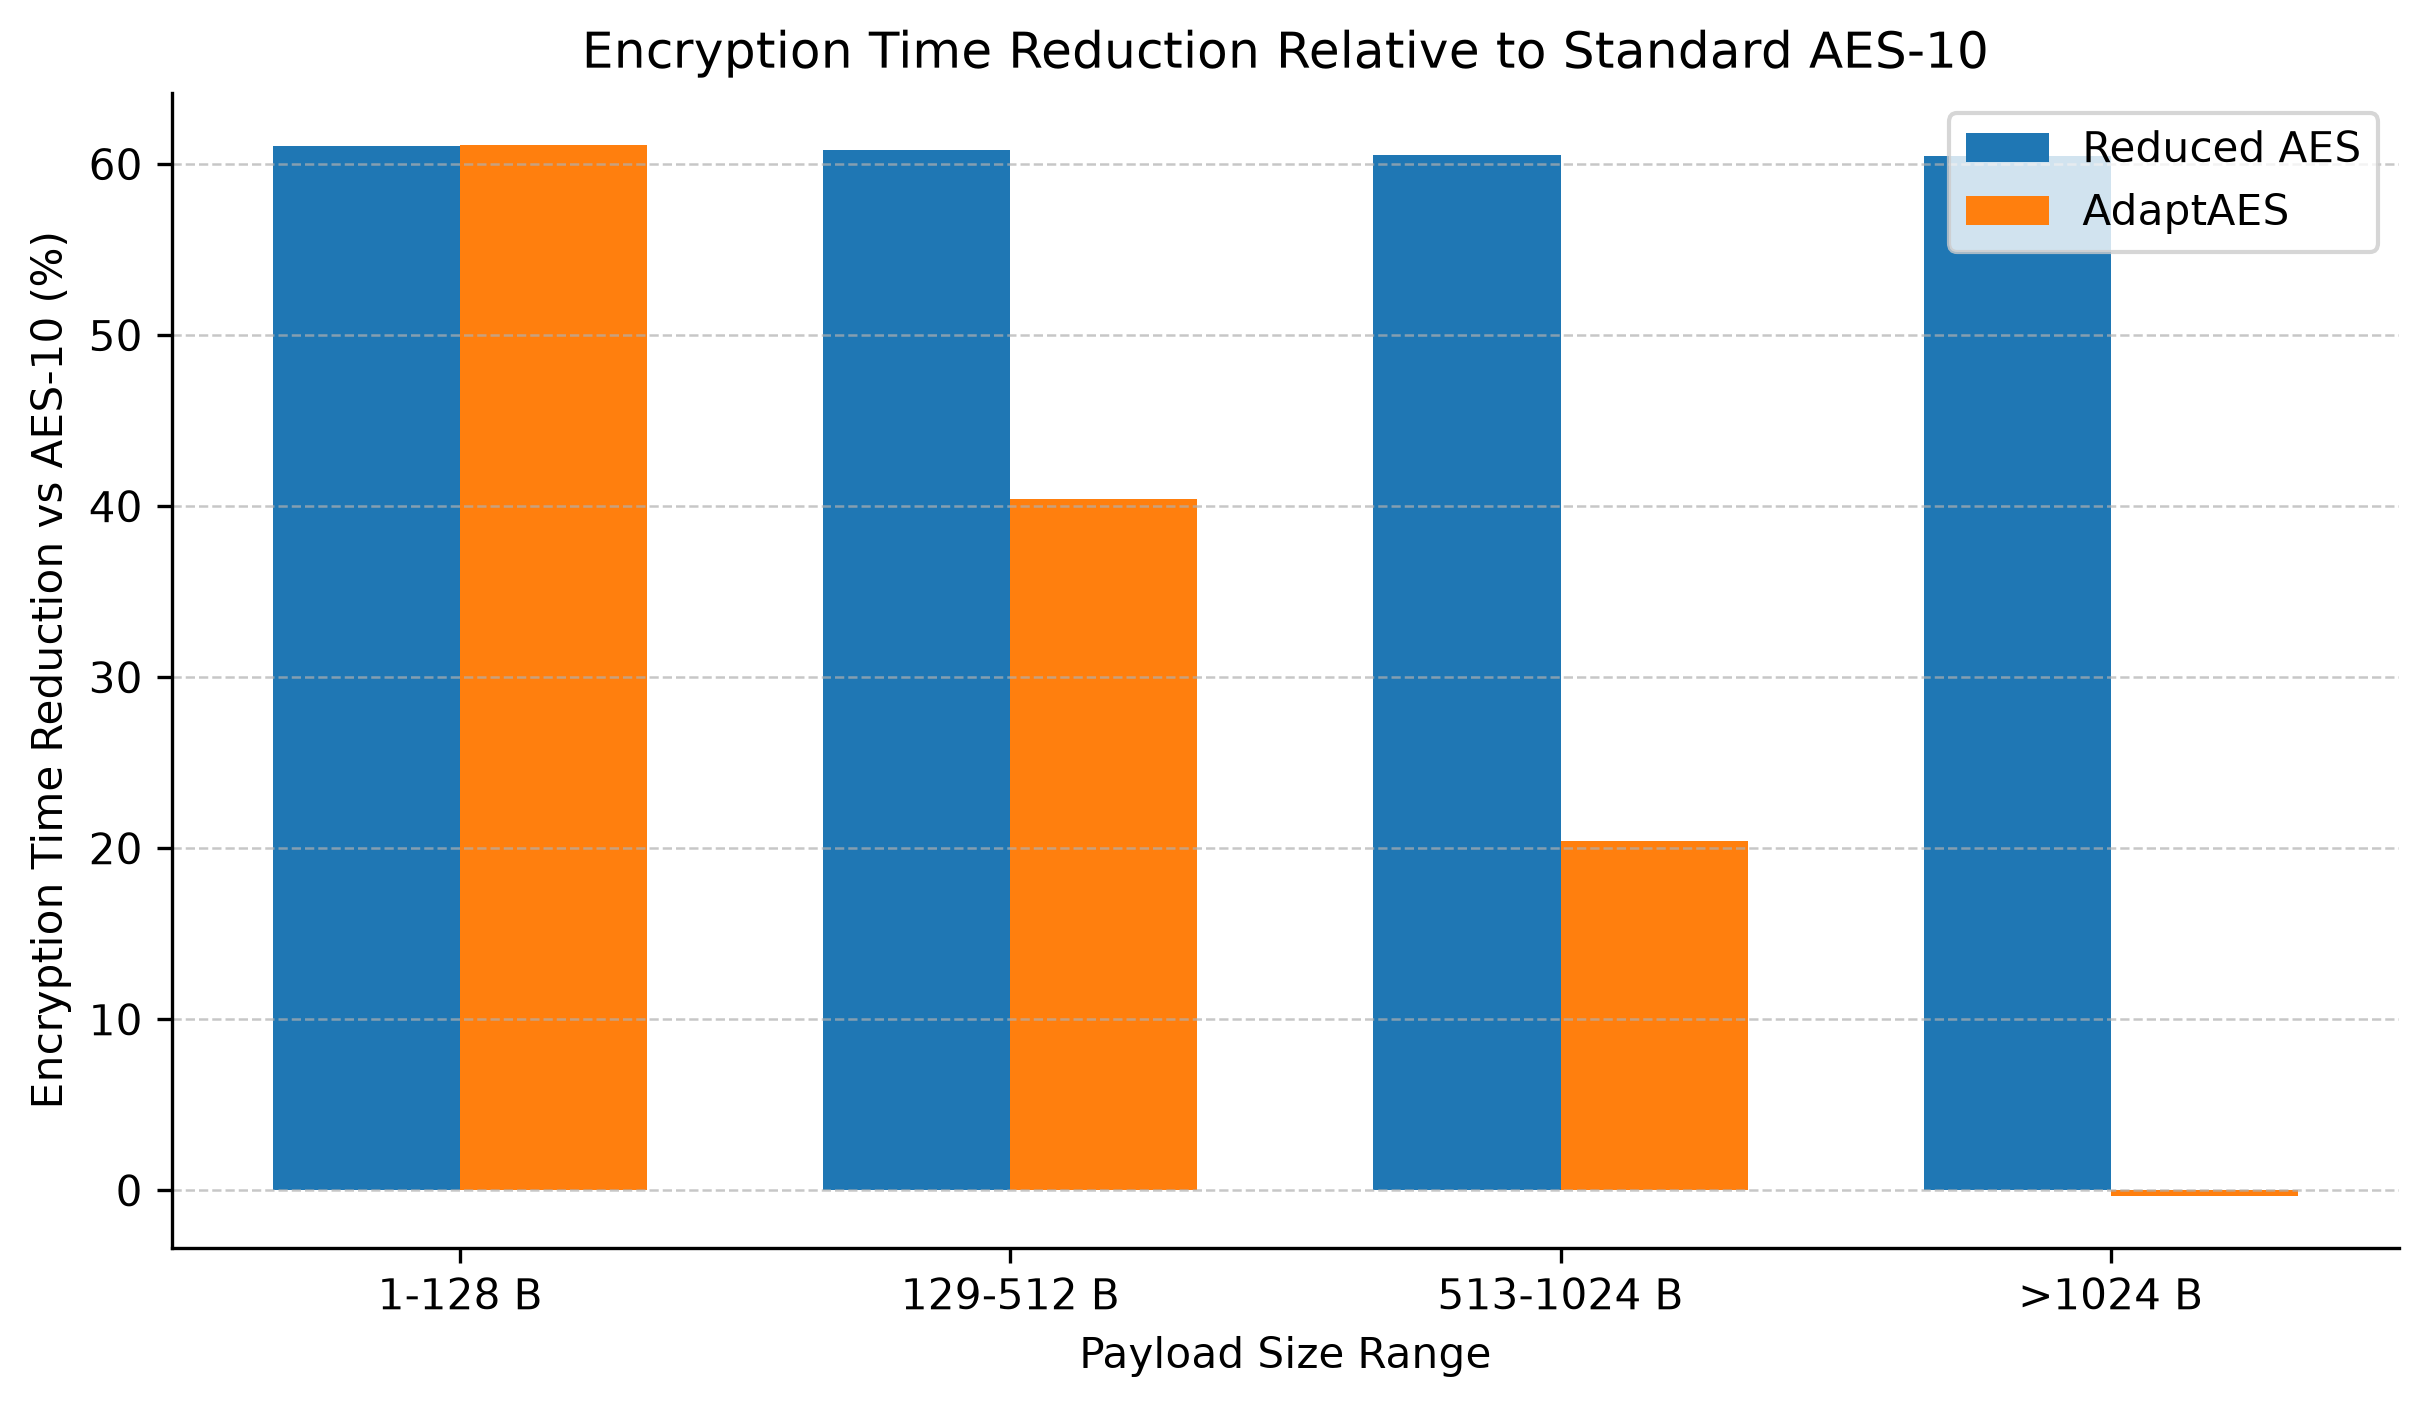
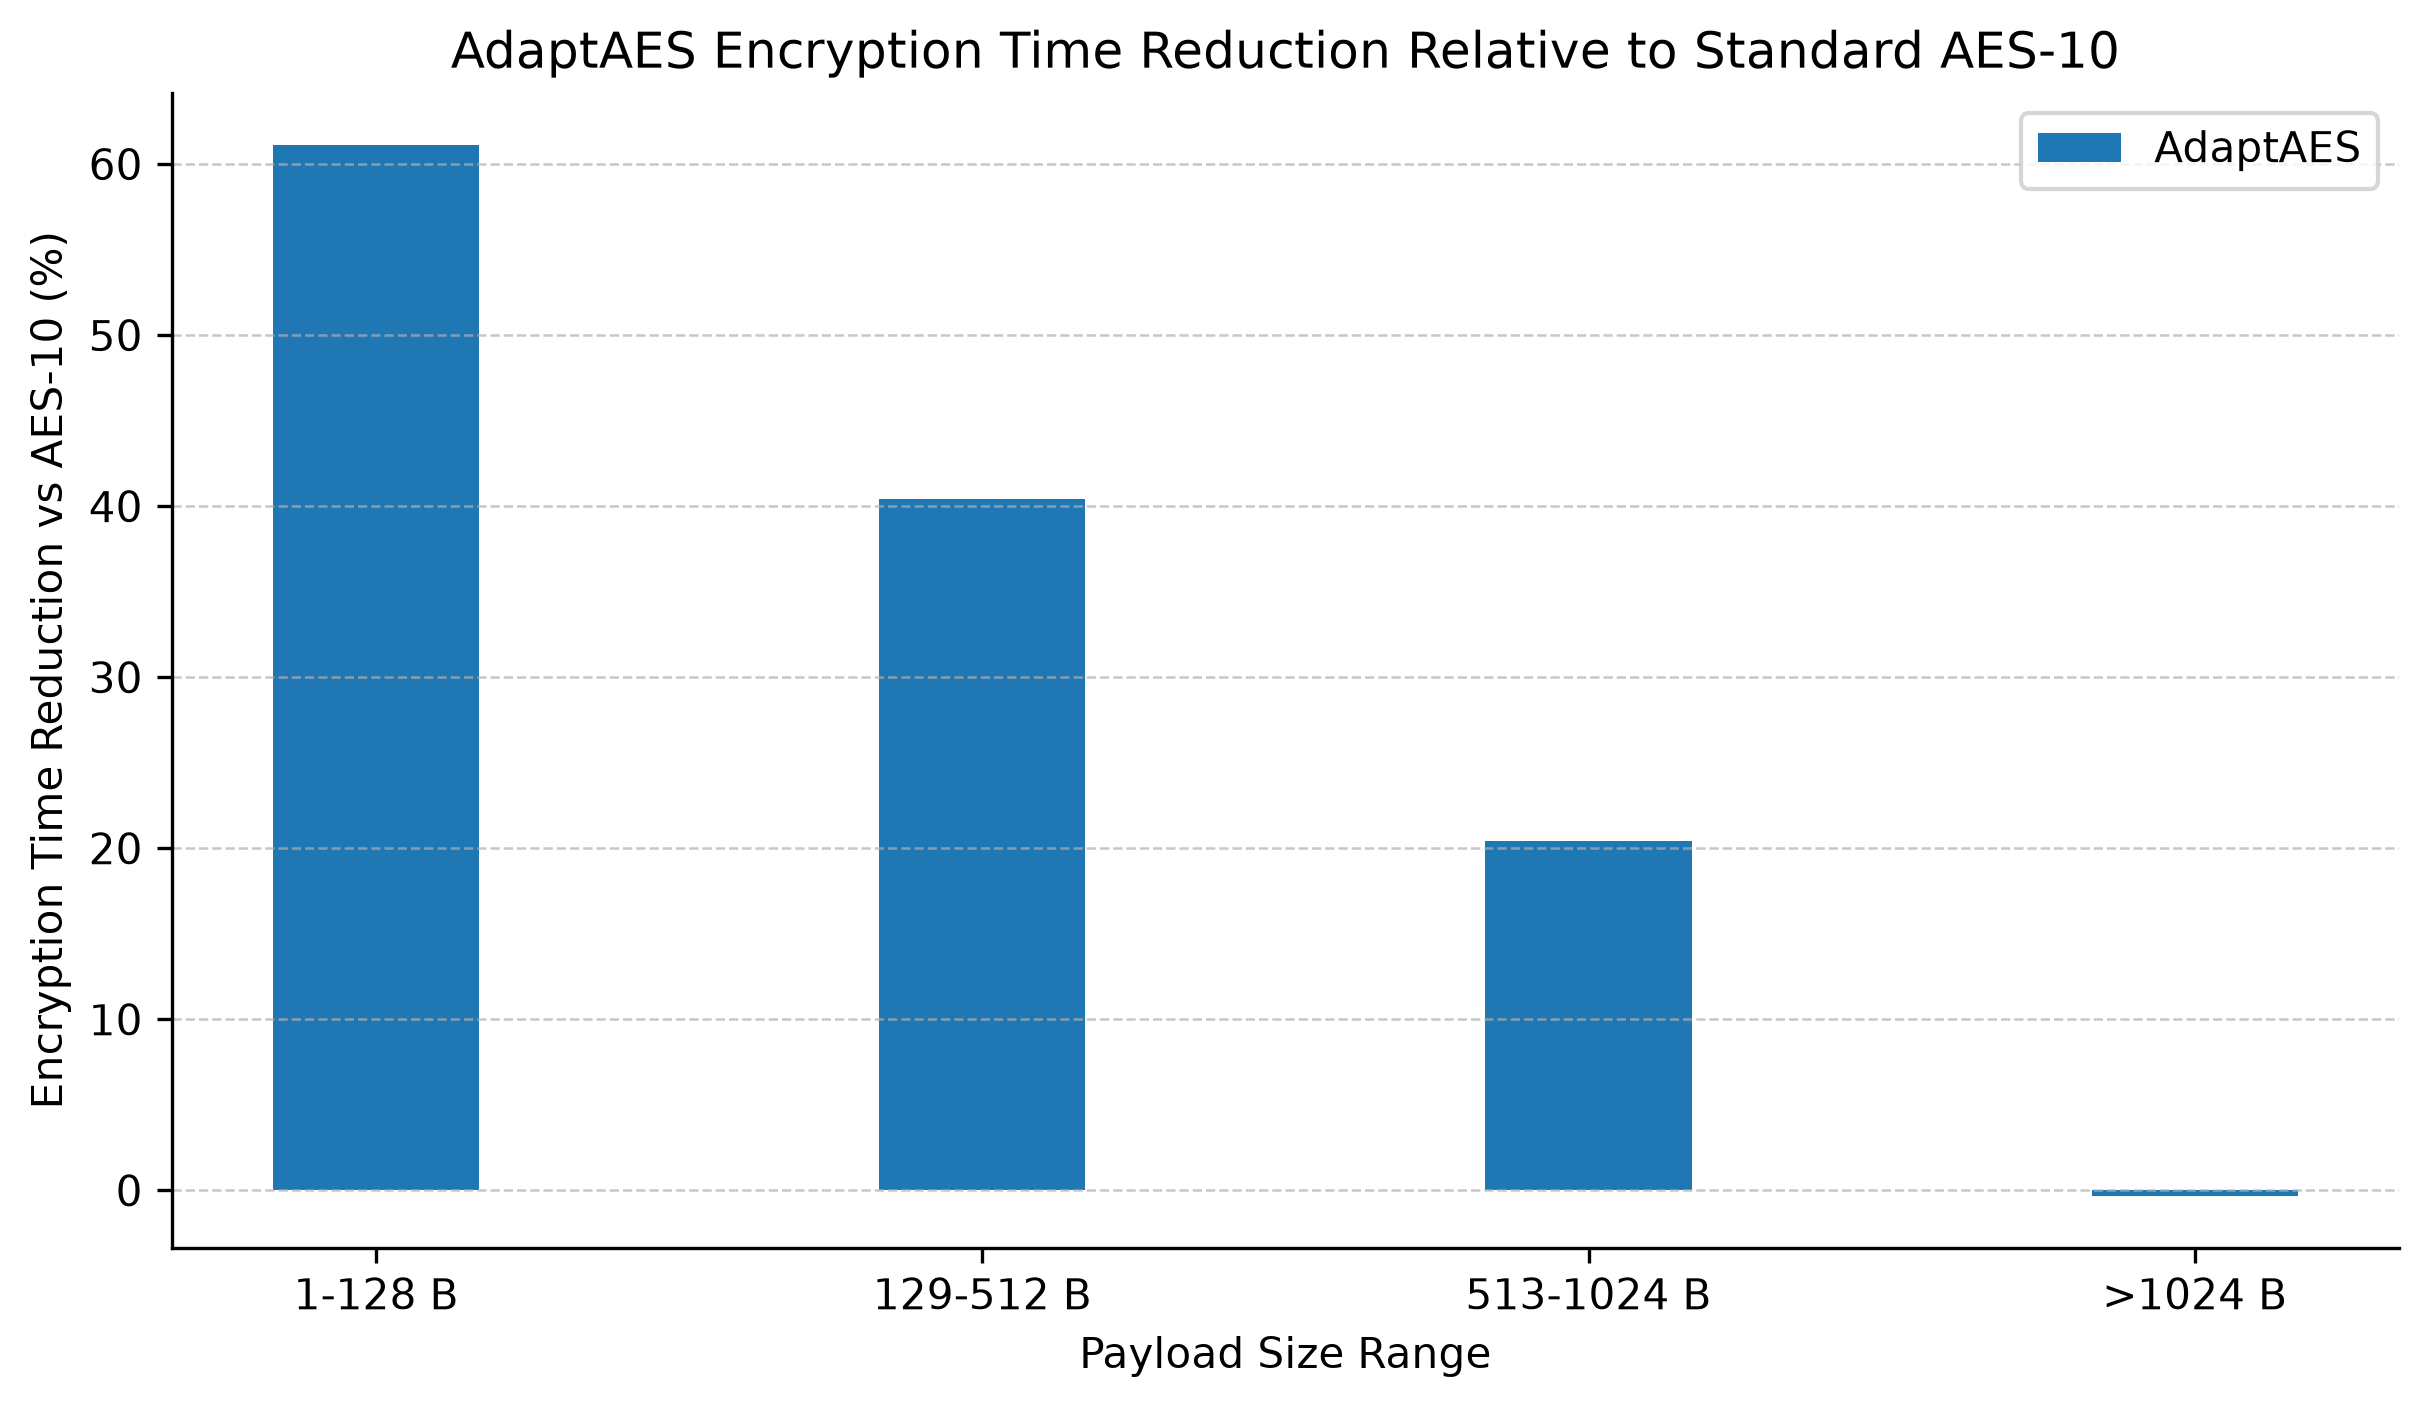
Update AdaptAES comparison graphs

diff --git a/scripts/generate_graphs.py b/scripts/generate_graphs.py
@@ -26,9 +26,6 @@ MODE_LABELS = {
     "fixed_reduced_aes_4": "Reduced AES",
     "adaptaes": "AdaptAES",
 }
-SECURITY_ROUNDS = [4, 6, 8, 10]
-
-
 def read_csv(path: Path) -> list[dict[str, str]]:
     with path.open("r", newline="", encoding="utf-8") as handle:
         return list(csv.DictReader(handle))
@@ -53,13 +50,6 @@ def validate_performance(rows: list[dict[str, str]]) -> None:
     if missing:
         formatted = ", ".join(f"{bucket}/{mode}" for bucket, mode in missing)
         raise ValueError(f"Missing payload range/method rows: {formatted}")
-
-
-def validate_security(rows: list[dict[str, str]]) -> None:
-    present = {int(float(row["rounds"])) for row in rows}
-    missing = [rounds for rounds in SECURITY_ROUNDS if rounds not in present]
-    if missing:
-        raise ValueError(f"Missing security round rows: {missing}")
 
 
 def ns_to_ms(value: str) -> float:
@@ -99,7 +89,7 @@ def graph1_payload_round_selection(rows: list[dict[str, str]], out_dir: Path) ->
 
     ax_rounds.set_xticks(x)
     ax_rounds.set_xticklabels([BUCKET_LABELS[bucket] for bucket in BUCKET_ORDER])
-    ax_rounds.set_yticks(SECURITY_ROUNDS)
+    ax_rounds.set_yticks([4, 6, 8, 10])
     ax_rounds.set_ylabel("AdaptAES Rounds")
     ax_percent.set_ylabel("Payload Share (%)")
     ax_rounds.set_xlabel("Payload Size Range")
@@ -147,9 +137,34 @@ def grouped_bar(
     save(fig, out_dir / filename)
 
 
+def weighted_method_metrics(rows: list[dict[str, str]]) -> dict[str, dict[str, float]]:
+    metrics = [
+        "avalanche_percent",
+        "key_avalanche_percent",
+        "entropy_bits_per_byte",
+        "plaintext_ciphertext_correlation",
+    ]
+    by_mode: dict[str, list[dict[str, str]]] = {mode: [] for mode in MODE_ORDER}
+    for row in rows:
+        by_mode[row["mode"]].append(row)
+
+    weighted = {}
+    for mode, mode_rows in by_mode.items():
+        total = sum(int(float(row["payload_count"])) for row in mode_rows)
+        weighted[mode] = {
+            metric: sum(
+                int(float(row["payload_count"])) * float(row[metric])
+                for row in mode_rows
+            )
+            / total
+            for metric in metrics
+        }
+    return weighted
+
+
 def graph5_security_metrics(rows: list[dict[str, str]], out_dir: Path) -> None:
-    by_round = {int(float(row["rounds"])): row for row in rows}
-    x = SECURITY_ROUNDS
+    by_mode = weighted_method_metrics(rows)
+    x = list(range(len(MODE_ORDER)))
     metrics = [
         ("avalanche_percent", "Avalanche Effect (%)", "Avalanche Effect", 50.0),
         ("key_avalanche_percent", "Key Avalanche Effect (%)", "Key Avalanche Effect", 50.0),
@@ -159,31 +174,31 @@ def graph5_security_metrics(rows: list[dict[str, str]], out_dir: Path) -> None:
 
     fig, axes = plt.subplots(2, 2, figsize=(9.5, 6.8))
     for ax, (column, ylabel, title, reference) in zip(axes.flat, metrics):
-        values = [float(by_round[rounds][column]) for rounds in x]
-        ax.plot(x, values, marker="o", linewidth=2)
+        values = [by_mode[mode][column] for mode in MODE_ORDER]
+        for index, (mode, value) in enumerate(zip(MODE_ORDER, values)):
+            ax.bar(index, value, width=0.55, label=MODE_LABELS[mode])
         if reference is not None:
             ax.axhline(reference, linestyle="--", linewidth=1)
         ax.set_xticks(x)
-        ax.set_xlabel("AES Rounds")
+        ax.set_xticklabels([MODE_LABELS[mode] for mode in MODE_ORDER], rotation=15, ha="right")
+        ax.set_xlabel("Method")
         ax.set_ylabel(ylabel)
         ax.set_title(title)
         style_axes(ax)
 
-    fig.suptitle("Security Characteristics Across AES Round Counts", fontsize=13)
+    fig.suptitle("Security Characteristics Across AES Methods", fontsize=13)
     save(fig, out_dir / "graph5_security_metrics_vs_rounds.png")
 
 
-def print_validation(performance_path: Path, security_path: Path) -> None:
+def print_validation(performance_path: Path) -> None:
     print("Found performance result:")
     print(f"    {performance_path}")
-    print("Found security result:")
-    print(f"    {security_path}")
     print("Using performance columns:")
     print("    payload_bucket, mode, payload_count, rounds_used")
     print("    mean_encryption_time_ns, mean_decryption_time_ns")
     print("    time_reduction_percent_vs_aes10")
-    print("Using security columns:")
-    print("    rounds, avalanche_percent, key_avalanche_percent")
+    print("Using security/statistical columns from the same file:")
+    print("    avalanche_percent, key_avalanche_percent")
     print("    entropy_bits_per_byte, plaintext_ciphertext_correlation")
 
 
@@ -199,7 +214,6 @@ def main() -> None:
     out_dir.mkdir(parents=True, exist_ok=True)
 
     performance_rows = read_csv(performance_path)
-    security_rows = read_csv(security_path)
     performance_columns = [
         "payload_bucket",
         "mode",
@@ -208,19 +222,14 @@ def main() -> None:
         "mean_encryption_time_ns",
         "mean_decryption_time_ns",
         "time_reduction_percent_vs_aes10",
-    ]
-    security_columns = [
-        "rounds",
         "avalanche_percent",
         "key_avalanche_percent",
         "entropy_bits_per_byte",
         "plaintext_ciphertext_correlation",
     ]
     require_columns(performance_rows, performance_columns, performance_path)
-    require_columns(security_rows, security_columns, security_path)
     validate_performance(performance_rows)
-    validate_security(security_rows)
-    print_validation(performance_path, security_path)
+    print_validation(performance_path)
 
     graph1_payload_round_selection(performance_rows, out_dir)
     grouped_bar(
@@ -246,11 +255,11 @@ def main() -> None:
         out_dir,
         column="time_reduction_percent_vs_aes10",
         ylabel="Encryption Time Reduction vs AES-10 (%)",
-        title="Encryption Time Reduction Relative to Standard AES-10",
+        title="AdaptAES Encryption Time Reduction Relative to Standard AES-10",
         filename="graph4_encryption_reduction.png",
-        modes=["fixed_reduced_aes_4", "adaptaes"],
+        modes=["adaptaes"],
     )
-    graph5_security_metrics(security_rows, out_dir)
+    graph5_security_metrics(performance_rows, out_dir)
 
 
 if __name__ == "__main__":
